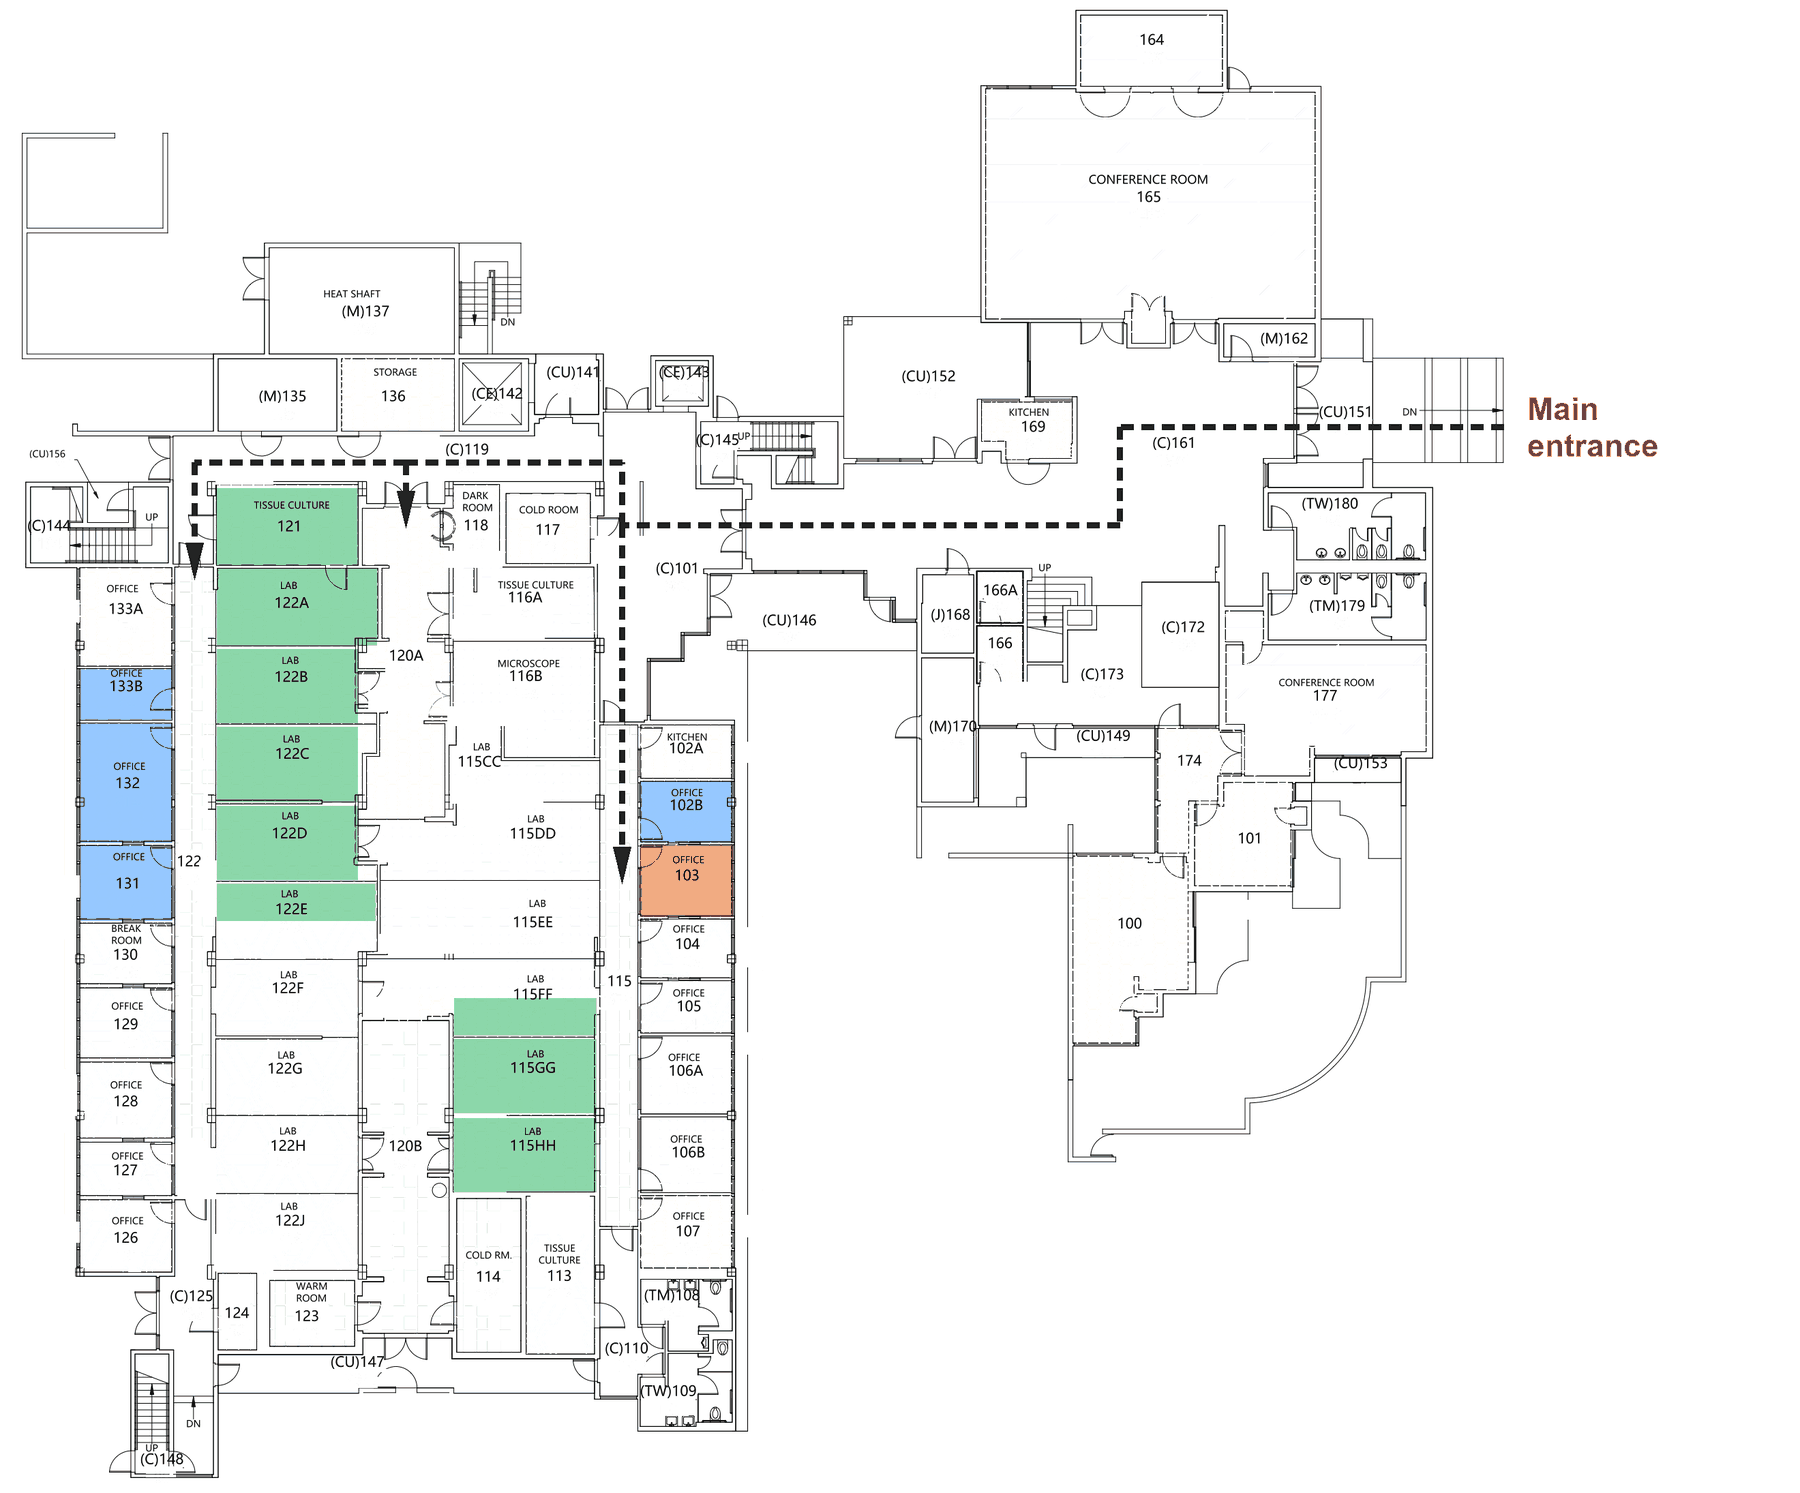
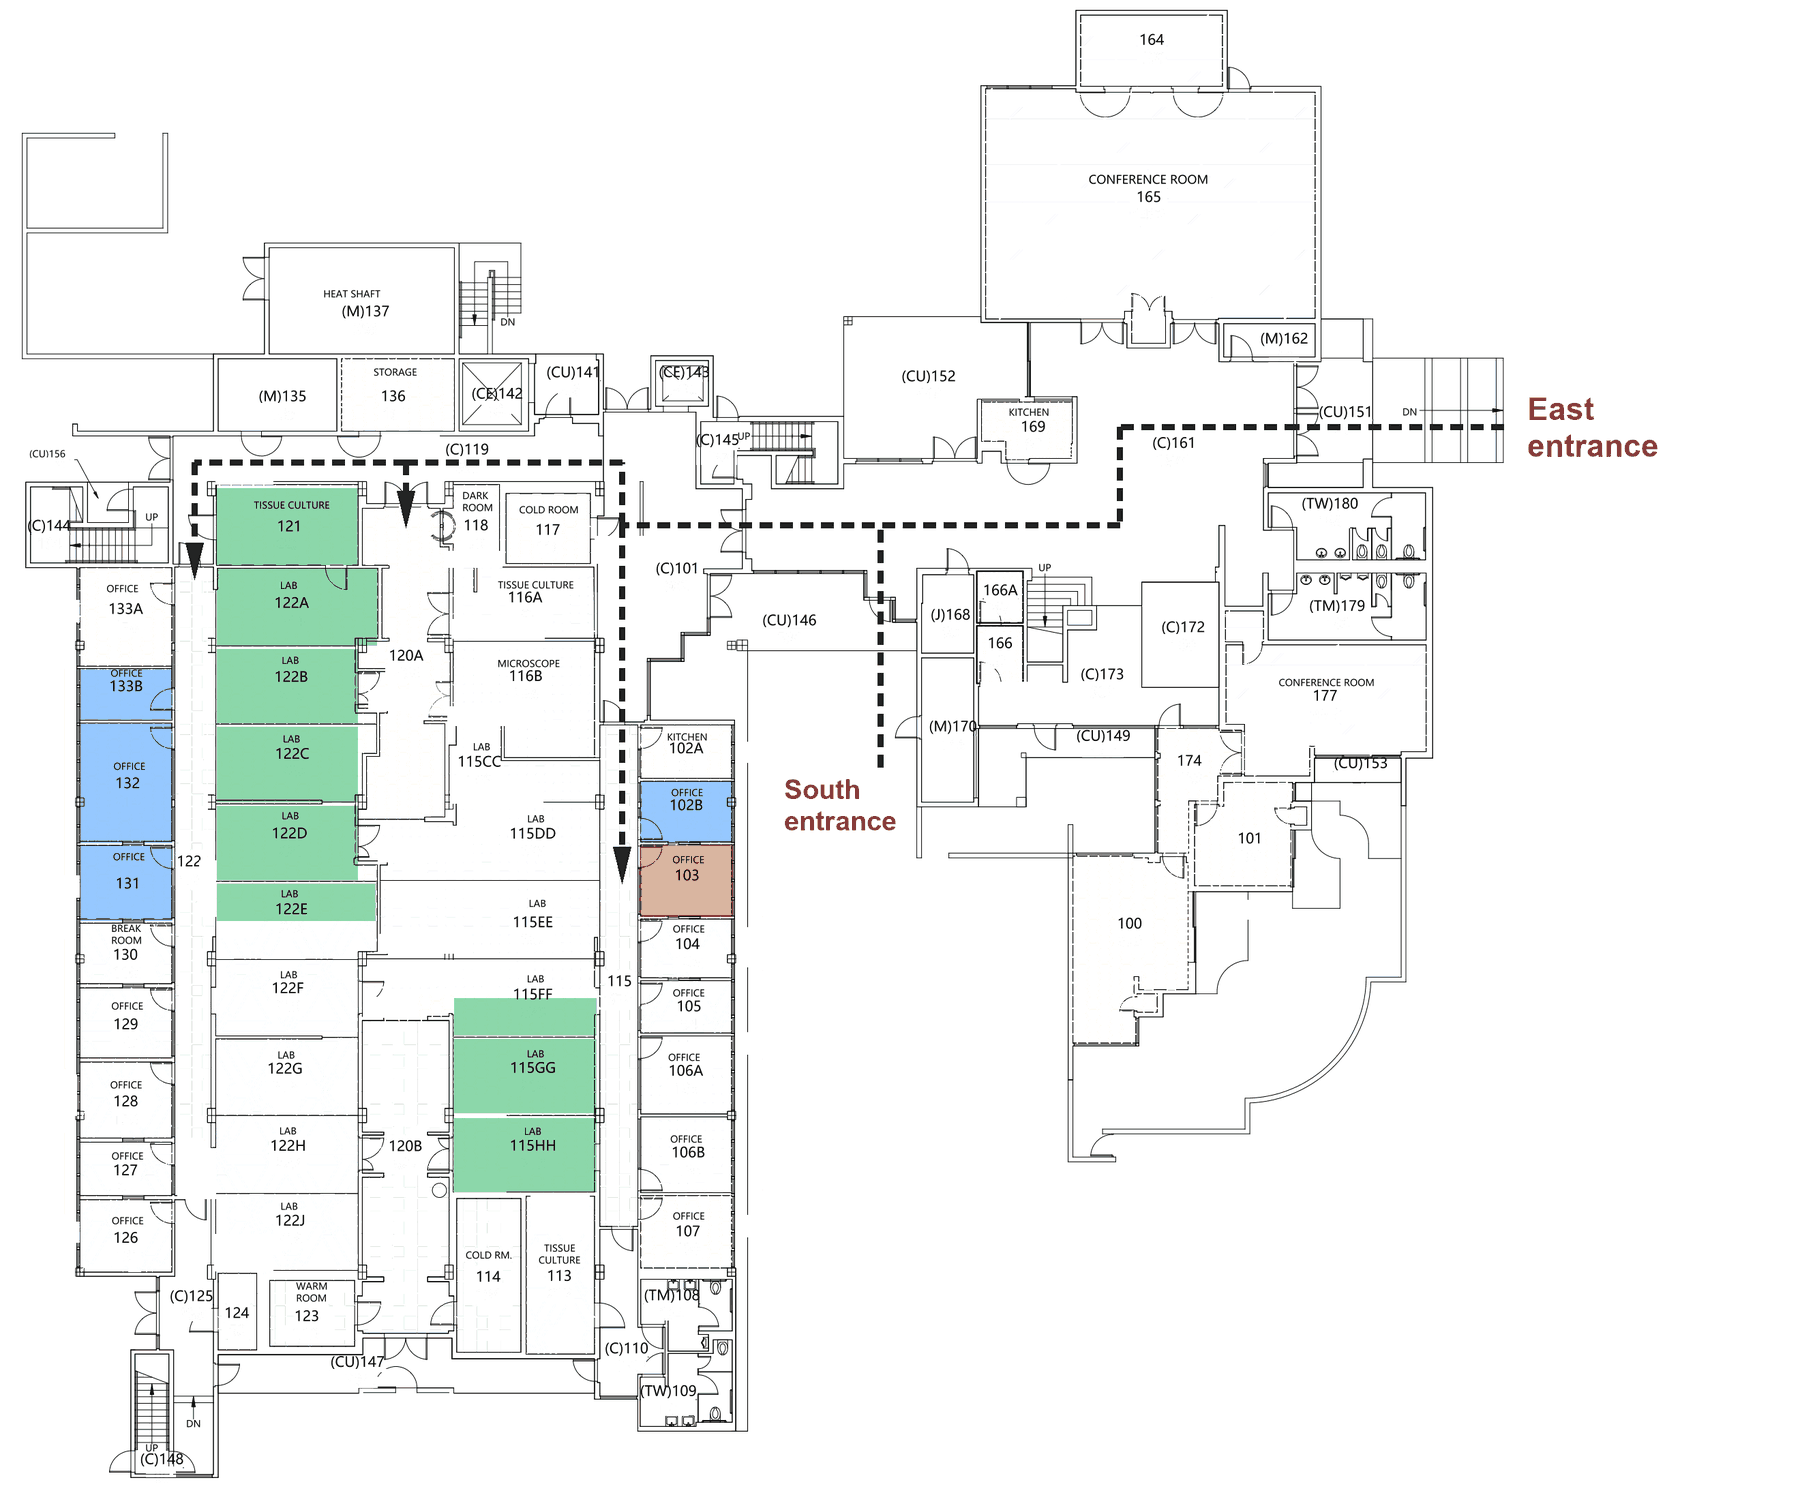
Contact: East and South entrances with photos; map beside stacked photos
- Floor plan: 'East entrance' label, new route from the South entrance
  through the single door in the south wall
- Layout: floor plan on the left, entrance photos stacked on the right
- Legend: 'Lab space'; original photos kept out of the repository

Changed region(s): [[0.84, 0.2465, 0.9333, 0.3081], [0.3422, 0.5546, 0.4044, 0.6162], [0.4356, 0.5238, 0.4978, 0.5546]]

diff --git a/contact.html b/contact.html
@@ -7,7 +7,7 @@
   <meta name="robots" content="noindex, nofollow">
   <title>Contact · Looger Lab</title>
   <meta name="description" content="Contact and join the Looger Lab at UC San Diego.">
-  <link rel="stylesheet" href="assets/css/style.css?v=8daa6d3a">
+  <link rel="stylesheet" href="assets/css/style.css?v=94b24c3e">
   <script src="assets/js/site.js?v=cc4ee8ab" defer></script>
 </head>
 <body>
@@ -46,25 +46,30 @@
 
       <section class="find-us">
         <h2>How to find us</h2>
-        <p>The main entrance of the Center for Neural Circuits &amp; Behavior faces the lawn. Once inside, cross the lobby, take the hallway on the left and follow the long corridor: our offices are on the left and our labs on the right. [Draft directions: please check.]</p>
+        <p>The building has two entrances. The <strong>East entrance</strong> faces the lawn: cross the lobby and take the hallway on the left. The <strong>South entrance</strong> is the single door off the covered walkway, opening onto the same hallway. From there, follow the long corridor: our offices are on the left and our labs on the right. [Draft directions: please check.]</p>
         <div class="find-us-figures">
-          <figure>
-            <!-- Replace with: <img src="assets/img/contact/entrance.jpg" alt="Main entrance of the Center for Neural Circuits and Behavior"> -->
-            <div class="figure-placeholder">Photo of the main entrance</div>
-            <figcaption>Main entrance</figcaption>
-          </figure>
           <figure class="floor-plan">
-            <a href="assets/img/contact/floor-plan.png" title="Open the full-size floor plan"><img src="assets/img/contact/floor-plan.png" alt="First-floor plan of the Center for Neural Circuits and Behavior, with the Looger Lab offices and labs highlighted and a dashed route from the main entrance" loading="lazy"></a>
+            <a href="assets/img/contact/floor-plan.png" title="Open the full-size floor plan"><img src="assets/img/contact/floor-plan.png" alt="First-floor plan of the Center for Neural Circuits and Behavior, with the Looger Lab offices and labs highlighted and dashed routes from the East and South entrances" loading="lazy"></a>
             <figcaption>
               First floor (click to enlarge)
               <span class="plan-legend">
                 <span><i class="swatch swatch-pi"></i>PI office</span>
                 <span><i class="swatch swatch-office"></i>Offices</span>
-                <span><i class="swatch swatch-lab"></i>Labs</span>
-                <span><i class="route-dash"></i>Route from the main entrance</span>
+                <span><i class="swatch swatch-lab"></i>Lab space</span>
+                <span><i class="route-dash"></i>Route from the entrances</span>
               </span>
             </figcaption>
           </figure>
+          <div class="entrance-photos">
+            <figure>
+              <img src="assets/img/contact/entrance-east.jpg" alt="East entrance of the Center for Neural Circuits and Behavior, seen across the lawn" loading="lazy">
+              <figcaption>East entrance</figcaption>
+            </figure>
+            <figure>
+              <img src="assets/img/contact/entrance-south.jpg" alt="South entrance of the Center for Neural Circuits and Behavior, at the end of a walkway" loading="lazy">
+              <figcaption>South entrance</figcaption>
+            </figure>
+          </div>
         </div>
       </section>
     </div>

diff --git a/assets/css/style.css b/assets/css/style.css
@@ -576,13 +576,13 @@ a.area-card:focus-visible { outline: 3px solid var(--accent); outline-offset: 2p
 .find-us { margin-top: 48px; }
 .find-us-figures {
   display: grid;
-  grid-template-columns: minmax(0, 1fr) minmax(0, 1fr);
+  grid-template-columns: minmax(0, 1.9fr) minmax(0, 1fr);
   gap: 20px;
-  max-width: 760px;
+  align-items: start;
   margin-top: 16px;
 }
-.find-us-figures img,
-.find-us-figures .figure-placeholder { aspect-ratio: 1800 / 1493; object-fit: contain; }
+.entrance-photos { display: grid; gap: 16px; }
+.entrance-photos img { aspect-ratio: 4 / 3; object-fit: cover; }
 .find-us-figures figure { margin: 0; }
 .find-us-figures img {
   display: block;
@@ -605,14 +605,15 @@ a.area-card:focus-visible { outline: 3px solid var(--accent); outline-offset: 2p
   color: var(--muted);
   font-size: 14px;
 }
-@media (max-width: 560px) {
-  .find-us-figures { gap: 10px; }
-  .find-us-figures figcaption { font-size: 12px; }
+@media (max-width: 640px) {
+  .find-us-figures { grid-template-columns: 1fr; }
+  .entrance-photos { grid-template-columns: 1fr 1fr; gap: 10px; }
 }
-.plan-legend { display: inline-flex; flex-wrap: wrap; gap: 4px 14px; margin-left: 12px; }
+.plan-legend { display: flex; flex-wrap: wrap; gap: 4px 14px; margin-top: 4px; }
 .plan-legend span { display: inline-flex; align-items: center; gap: 6px; }
 .swatch { display: inline-block; width: 12px; height: 12px; border-radius: 3px; border: 1px solid rgba(0,0,0,0.25); }
 .swatch-pi { background: #ffaa78; }
 .swatch-office { background: #96c8ff; }
 .swatch-lab { background: #8cd7aa; }
 .route-dash { display: inline-block; width: 22px; border-top: 3px dashed currentColor; }
+.find-us-figures > * { min-width: 0; }

diff --git a/research-area.html b/research-area.html
@@ -6,7 +6,7 @@
   <!-- Draft: keep search engines out until launch. Remove this line when the site goes live. -->
   <meta name="robots" content="noindex, nofollow">
   <title>Research · Looger Lab</title>
-  <link rel="stylesheet" href="assets/css/style.css?v=8daa6d3a">
+  <link rel="stylesheet" href="assets/css/style.css?v=94b24c3e">
   <script src="assets/js/site.js?v=cc4ee8ab" defer></script>
 </head>
 <body>

diff --git a/person.html b/person.html
@@ -6,7 +6,7 @@
   <!-- Draft: keep search engines out until launch. Remove this line when the site goes live. -->
   <meta name="robots" content="noindex, nofollow">
   <title>People · Looger Lab</title>
-  <link rel="stylesheet" href="assets/css/style.css?v=8daa6d3a">
+  <link rel="stylesheet" href="assets/css/style.css?v=94b24c3e">
   <script src="assets/js/site.js?v=cc4ee8ab" defer></script>
 </head>
 <body>

diff --git a/publications.html b/publications.html
@@ -7,7 +7,7 @@
   <meta name="robots" content="noindex, nofollow">
   <title>Publications · Looger Lab</title>
   <meta name="description" content="Publications from the Looger Lab at UC San Diego.">
-  <link rel="stylesheet" href="assets/css/style.css?v=8daa6d3a">
+  <link rel="stylesheet" href="assets/css/style.css?v=94b24c3e">
   <script src="assets/js/site.js?v=cc4ee8ab" defer></script>
 </head>
 <body>

diff --git a/research.html b/research.html
@@ -7,7 +7,7 @@
   <meta name="robots" content="noindex, nofollow">
   <title>Research · Looger Lab</title>
   <meta name="description" content="Research in the Looger Lab at UC San Diego.">
-  <link rel="stylesheet" href="assets/css/style.css?v=8daa6d3a">
+  <link rel="stylesheet" href="assets/css/style.css?v=94b24c3e">
   <script src="assets/js/site.js?v=cc4ee8ab" defer></script>
 </head>
 <body>

diff --git a/people.html b/people.html
@@ -7,7 +7,7 @@
   <meta name="robots" content="noindex, nofollow">
   <title>People · Looger Lab</title>
   <meta name="description" content="Members of the Looger Lab at UC San Diego.">
-  <link rel="stylesheet" href="assets/css/style.css?v=8daa6d3a">
+  <link rel="stylesheet" href="assets/css/style.css?v=94b24c3e">
   <script src="assets/js/site.js?v=cc4ee8ab" defer></script>
 </head>
 <body>

diff --git a/index.html b/index.html
@@ -7,7 +7,7 @@
   <meta name="robots" content="noindex, nofollow">
   <title>Looger Lab</title>
   <meta name="description" content="The Looger Lab at UC San Diego.">
-  <link rel="stylesheet" href="assets/css/style.css?v=8daa6d3a">
+  <link rel="stylesheet" href="assets/css/style.css?v=94b24c3e">
   <script src="assets/js/site.js?v=cc4ee8ab" defer></script>
 </head>
 <body>
